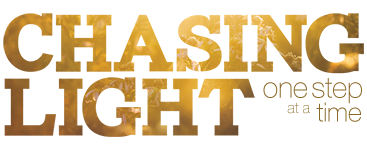
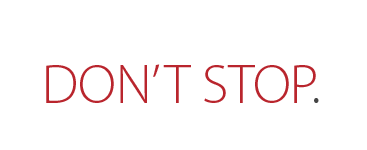
Dont stop ready for live

diff --git a/index.html b/index.html
@@ -9,13 +9,14 @@ title: LifeChurch.tv - Watch a Message, do Church Online Live, get Involved.
 
   <div class="hero-inner">
     <div class="hero-copy">
-      <h1>Chasing Light</h1>
-      <p class="lead">Life simply can’t happen without light—and there’s nowhere it shines brighter than at its source. Get a better glimpse in Chasing Light.</p>
+      <h1>Don't Stop</h1>
+      <p class="lead">Obstacles and trials will come and go, but one thing can always
+    remain constant on your journey. Good things happen when we Don’t Stop.</p>
 
-      <a href="/watch/chasing-light/"
+      <a href="/watch/dont-stop/"
          class="action large"
          onclick="ga('send', 'event', 'Home', 'Play', 'Watch');">
-         Watch Series <i class="icon icon-play"></i>
+         Series Preview <i class="icon icon-play"></i>
       </a>
 
       <a href="http://live.lifechurch.tv"

diff --git a/_sass/pages/_home.scss b/_sass/pages/_home.scss
@@ -63,7 +63,7 @@
   .hero {
     min-height: 200px;
     background-color: white;
-    //@include retina-image(/images/home/generic-bg, 500px auto, jpg);
+    @include retina-image(/images/home/generic-bg, 500px auto, jpg);
     background-position: bottom center;
     position: relative;
     padding-bottom: 140px;
@@ -73,7 +73,7 @@
     }
 
     @include media($medium-screen) {
-      //@include retina-image(/images/home/generic-bg, 1500px auto, jpg);
+      @include retina-image(/images/home/generic-bg, 1500px auto, jpg);
       //height: 800px;
       padding-bottom: 3em;
     }
@@ -87,7 +87,7 @@
       width: 100%;
       max-width: 490px;
       height: 250px;
-      margin: -95px auto 10px;
+      margin: -95px auto 0px;
 
       @include media($medium-screen) {
         height: 300px;

diff --git a/watch/_posts/2015-03-19-dont-stop.md b/watch/_posts/2015-03-19-dont-stop.md
@@ -1,6 +1,6 @@
 ---
-published: false
-layout: watch-archive
+published: true
+layout: watch-novideo
 categories: watch
 series-id: dont-stop
 title: Don't Stop
